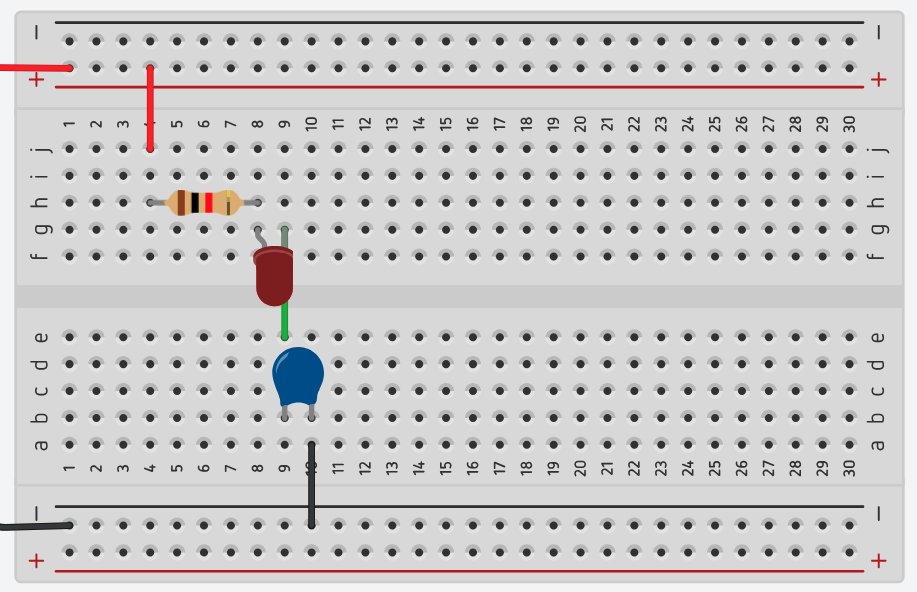
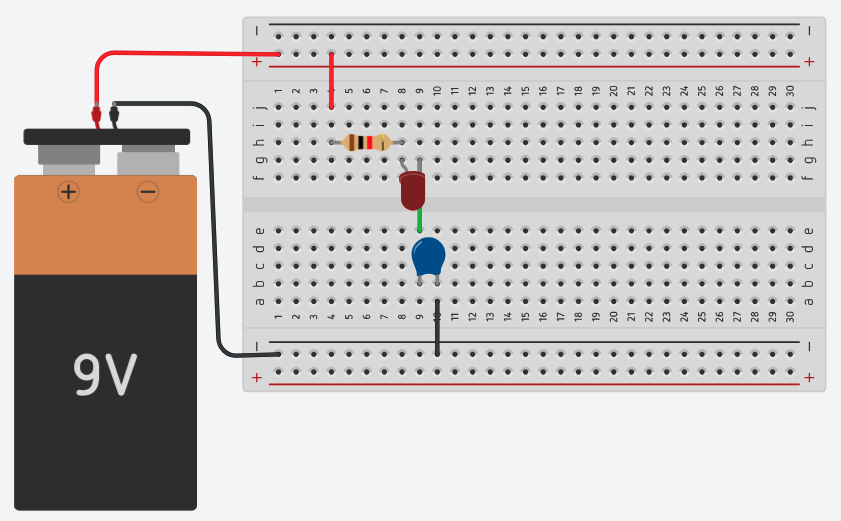
Revise Capacitor DC Block experiment

diff --git a/electronics/experiments/capacitor-dc-block/25.md b/electronics/experiments/capacitor-dc-block/25.md
@@ -159,15 +159,51 @@ Run the simulator. You will see the current through the circuit after the capaci
 
 Image 12
 
-PENDING
+Variation
 
-Images e1 to e5 steps should go here.
+Step 1
 
-Diagrams e1 to e5 is used to show the same concept with an LED. The LED lights on briefly while the capacitor is charging. It then blocks the DC current through the circuit. This leads to open circuit and turns off the LED
+Connect a 1 k ohm resistor to h4 and h8 in the breadboard. Connect the first terminal of the resistor to the positive terminal of the breadboard.
 
-PENDING
+e8
 
-Run the simulation and capture the images.
+Step 2
+
+Connect a LED to g8 and g9 of the breadboard. The anode is connected to the g8 and the cathode is connected to g9.
+
+e7
+
+Anode of the LED:
+
+e6
+
+Cathode of the LED:
+
+e5
+
+Step 3
+
+Connect a 100 nF capacitor to b9 and b10 in the breadboard. 
+
+e4
+
+Step 4
+
+Connect the capacitor to the ground. This is the black wire from a10 to the ground.
+
+e3
+
+Step 5
+
+Connect the cathode of the LED to the first terminal of the capacitor. This is the green line from f9 to e9.
+
+e2
+
+Step 6
+
+Connect a 9 volt battery to the breadboard. Run the simulation.
+
+The LED lights up briefly while the capacitor is charging. It then blocks the DC current through the circuit. This leads to open circuit and turns off the LED
 
 PENDING
 
